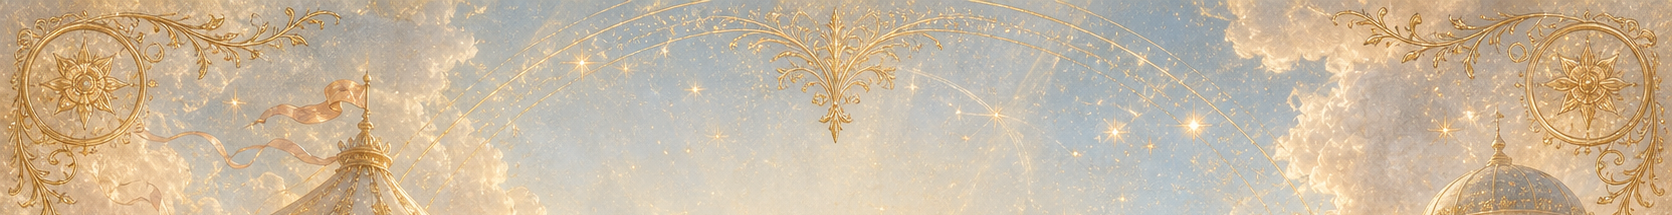
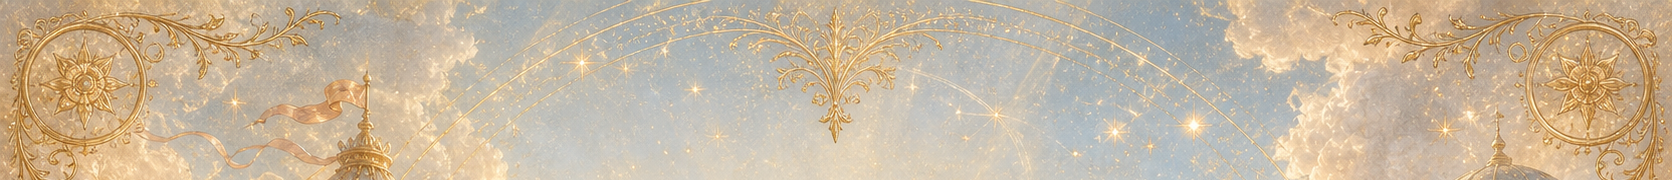
feat: 배경·헤더 천국의 회전목마로 교체 + layout 배경 이미지 복원

diff --git a/src/app/layout.tsx b/src/app/layout.tsx
@@ -1,4 +1,5 @@
 import type { Metadata, Viewport } from "next";
+import Image from "next/image";
 import { Toaster } from "sonner";
 
 import { ThemeProvider } from "@/components/theme-provider";
@@ -37,11 +38,17 @@ export default function RootLayout({
           href="https://cdn.jsdelivr.net/gh/orioncactus/pretendard@v1.3.9/dist/web/static/pretendard.min.css"
         />
       </head>
-      <body className="relative min-h-full bg-background text-foreground">
-        <div
-          aria-hidden
-          className="pointer-events-none fixed inset-0 -z-10 bg-[linear-gradient(180deg,oklch(1_0_0/0.08),transparent_35%,oklch(0.12_0.03_55/0.08))]"
-        />
+      <body className="relative min-h-full text-foreground">
+        {/* 모바일 배경 */}
+        <div aria-hidden className="pointer-events-none fixed inset-0 -z-20 sm:hidden">
+          <Image src="/mystic-bg-mobile.png" alt="" fill priority sizes="100vw" className="object-cover object-center" />
+        </div>
+        {/* 데스크톱 배경 */}
+        <div aria-hidden className="pointer-events-none fixed inset-0 -z-20 hidden sm:block">
+          <Image src="/mystic-bg-wide.png" alt="" fill priority sizes="100vw" className="object-cover object-center" />
+        </div>
+        {/* 가독성 오버레이 */}
+        <div aria-hidden className="pointer-events-none fixed inset-0 -z-10 bg-background/40 backdrop-blur-[1px]" />
 
         <ThemeProvider
           attribute="class"
